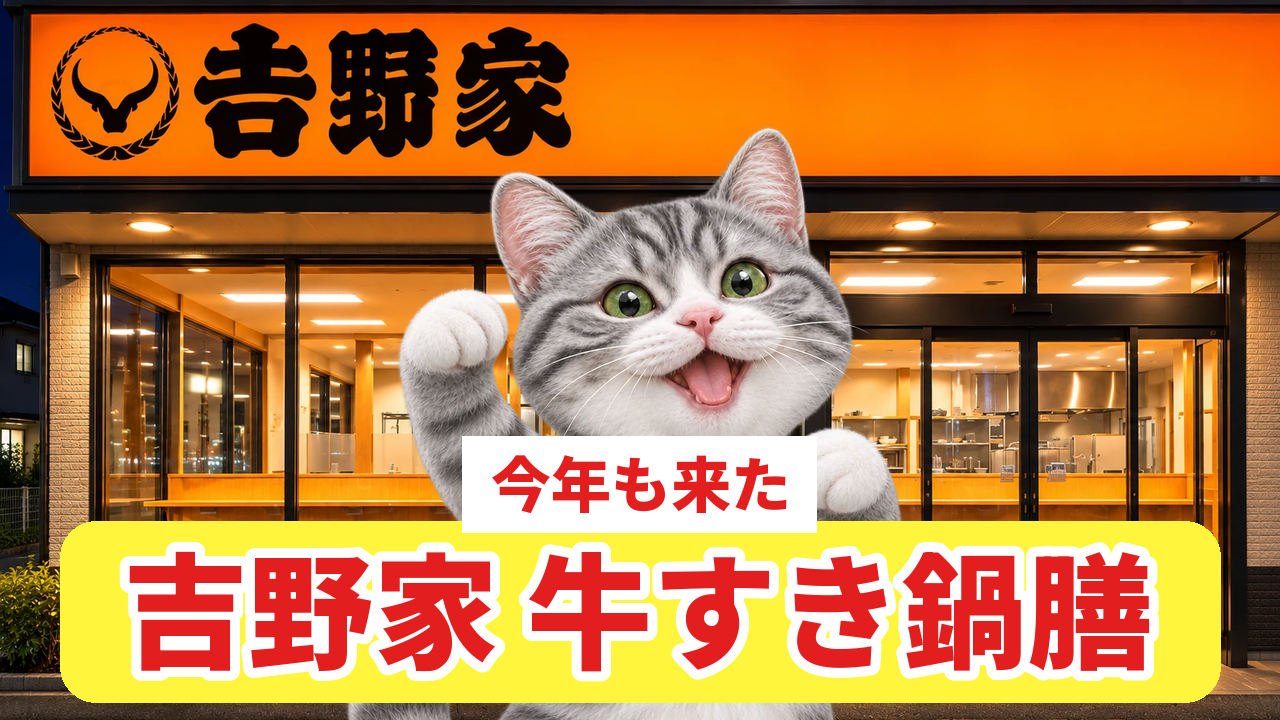
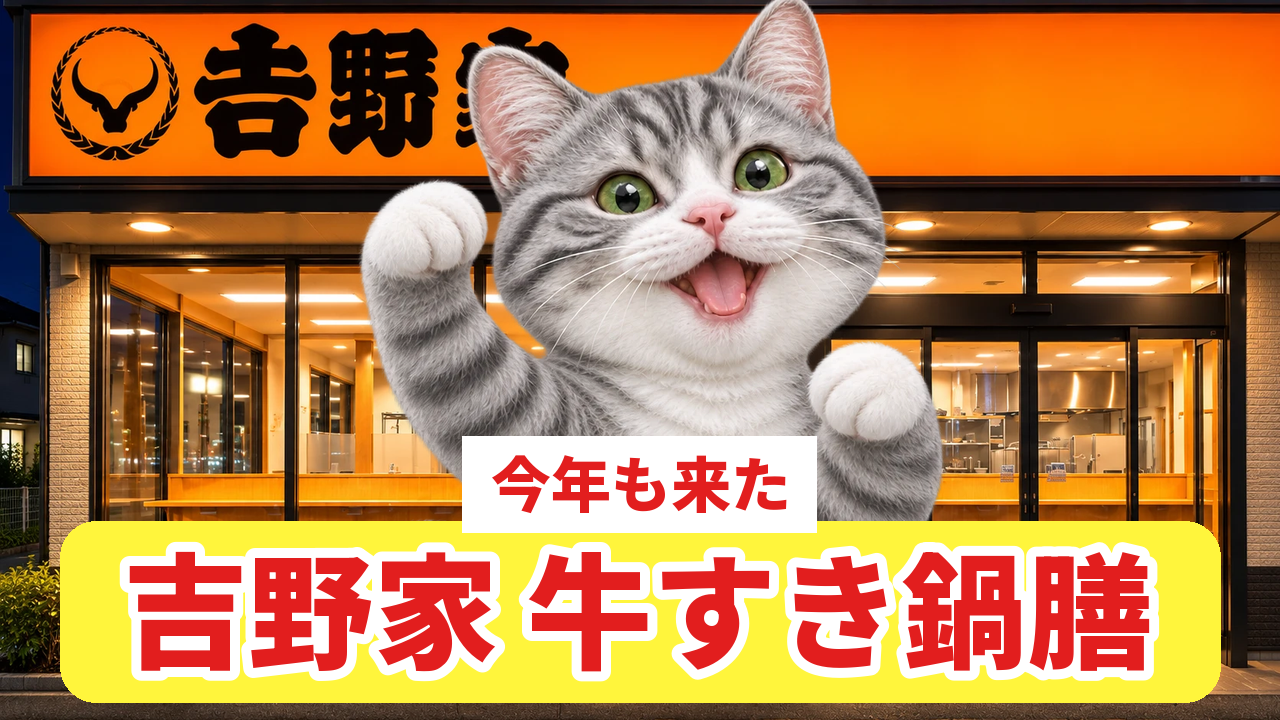
自堕落#23 吉野家：サムネの猫をもう少しアップ・上に
Claude-Session: https://claude.ai/code/session_011g9CsrfFD5YswfNSvNDW39

Changed region(s): [[0.2812, 0.0, 0.75, 0.7333], [0.25, 0.9778, 0.6562, 1.0]]

diff --git a/catmeme/make_thumb_yoshinoya.py b/catmeme/make_thumb_yoshinoya.py
@@ -113,9 +113,9 @@ def final3():
     img = T.fill_photo("yo03_front_wide", T.W, T.H, cy=0.4)
     cat = Image.open(os.path.join(T.HERE, "backgrounds", "jidaraku", "23_yoshinoya", "t_cat_dance.png")).convert("RGBA")
     cat = cat.crop((0, 0, cat.width, int(cat.height * 0.55)))   # 上半身だけ
-    k = 760 / cat.width
-    cat = cat.resize((760, int(cat.height * k)), Image.LANCZOS)
-    img.alpha_composite(cat, ((T.W - cat.width) // 2, T.H - cat.height))
+    k = 880 / cat.width   # 11/18 もう少しアップ
+    cat = cat.resize((880, int(cat.height * k)), Image.LANCZOS)
+    img.alpha_composite(cat, ((T.W - cat.width) // 2, T.H - cat.height - 40))   # 上半身を少し上に出す
     big = T.runs([("吉野家 牛すき鍋膳", T.RED)], 170, 10, T.W - 220)
     bh = big.height + 40
     by = T.H - bh - 18
